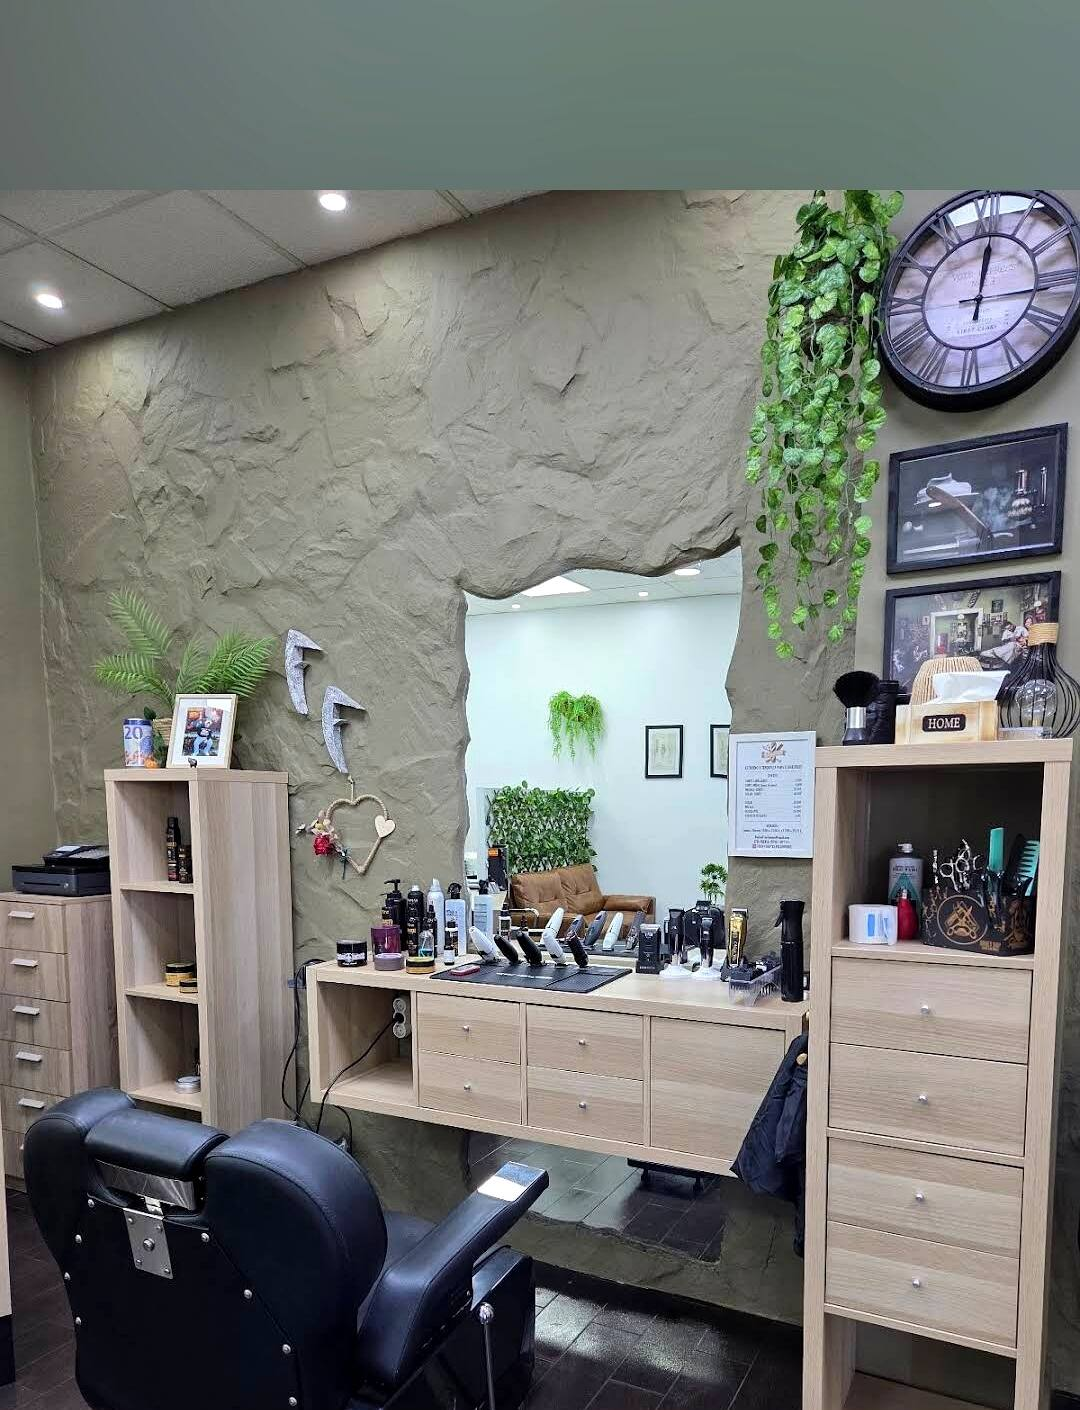
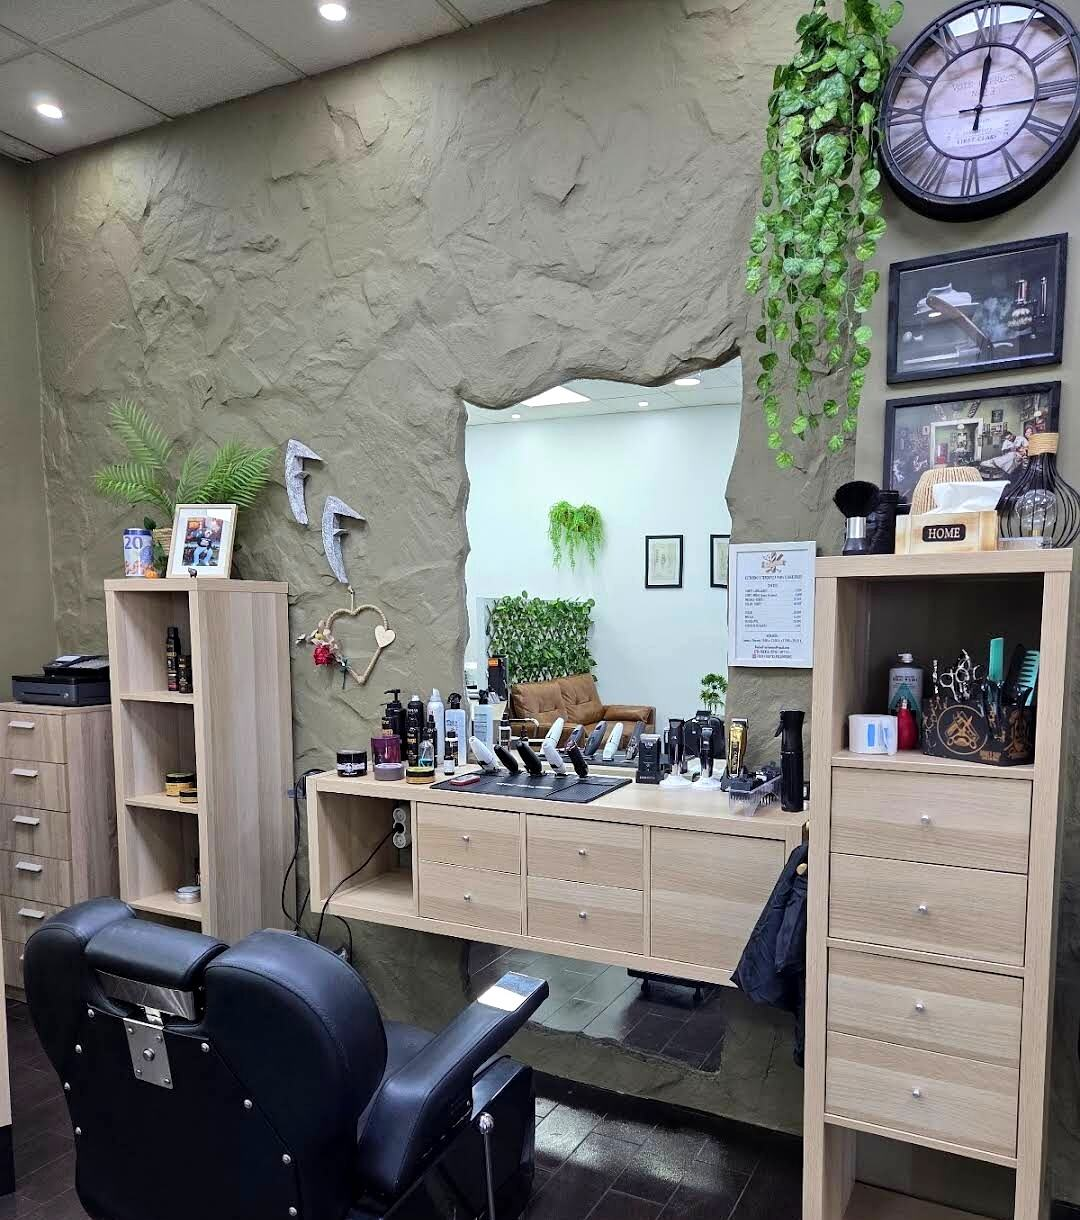
fix: encuadre de las fotos y fondo de reseñas sin pixelar
- Recorta las franjas de color lisas que traían las fotos de portada y de
  'sobre nosotros', y centra la portada en el puesto de trabajo
- La foto de reseñas mide 399 px: se difumina para que no se vea pixelada

Claude-Session: https://claude.ai/code/session_01UsZbTpTwKP9bfQ1E84fcw5

diff --git a/src/components/Reviews.tsx b/src/components/Reviews.tsx
@@ -39,12 +39,13 @@ export default function Reviews() {
     <section
       id="resenas"
       className="relative py-24 md:py-36 overflow-hidden"
-      style={{
-        backgroundImage: 'url(/local-entero.jpg)',
-        backgroundSize: 'cover',
-        backgroundPosition: 'center',
-      }}
     >
+      {/* La foto es pequeña (399 px): se difumina para que no se vea pixelada */}
+      <div
+        className="absolute -inset-8 pointer-events-none blur-md scale-105"
+        style={{ backgroundImage: 'url(/local-entero.jpg)', backgroundSize: 'cover', backgroundPosition: 'center' }}
+        aria-hidden="true"
+      />
       <div className="absolute inset-0 bg-ink/75 pointer-events-none" />
       <div className="relative max-w-7xl mx-auto px-6 md:px-10">
         <div ref={head} className="reveal max-w-3xl">

diff --git a/src/components/About.tsx b/src/components/About.tsx
@@ -12,7 +12,7 @@ export default function About() {
       style={{
         backgroundImage: 'url(/local-interior.jpg)',
         backgroundSize: 'cover',
-        backgroundPosition: 'center 40%',
+        backgroundPosition: 'center 65%',
       }}
     >
       <div className="absolute inset-0 bg-ink/75 pointer-events-none" />

diff --git a/src/components/Hero.tsx b/src/components/Hero.tsx
@@ -9,7 +9,7 @@ export default function Hero() {
   style={{
     backgroundImage: 'url(/local-hero.jpg)',
     backgroundSize: 'cover',
-    backgroundPosition: 'center 30%',
+    backgroundPosition: 'center 65%',
   }}
 >
       {/* Overlay oscuro para legibilidad */}
